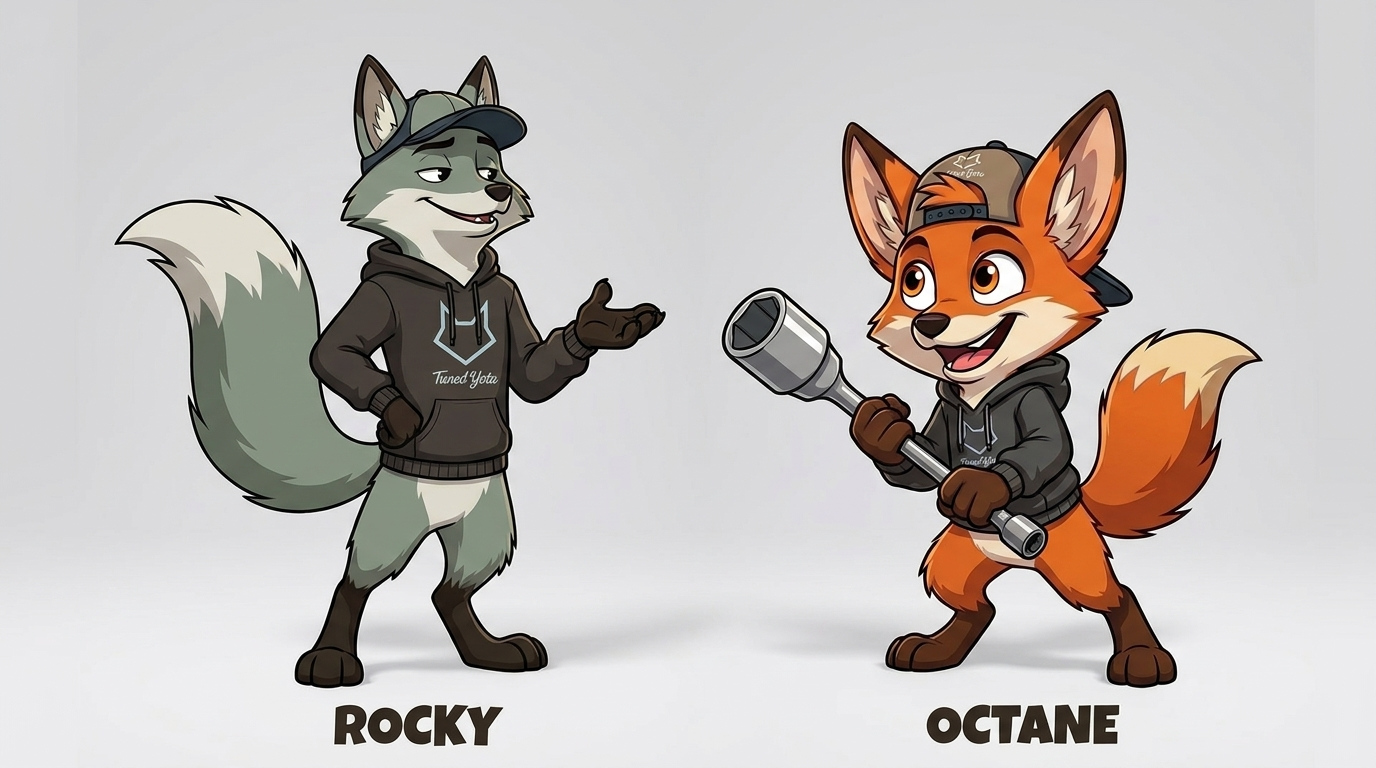
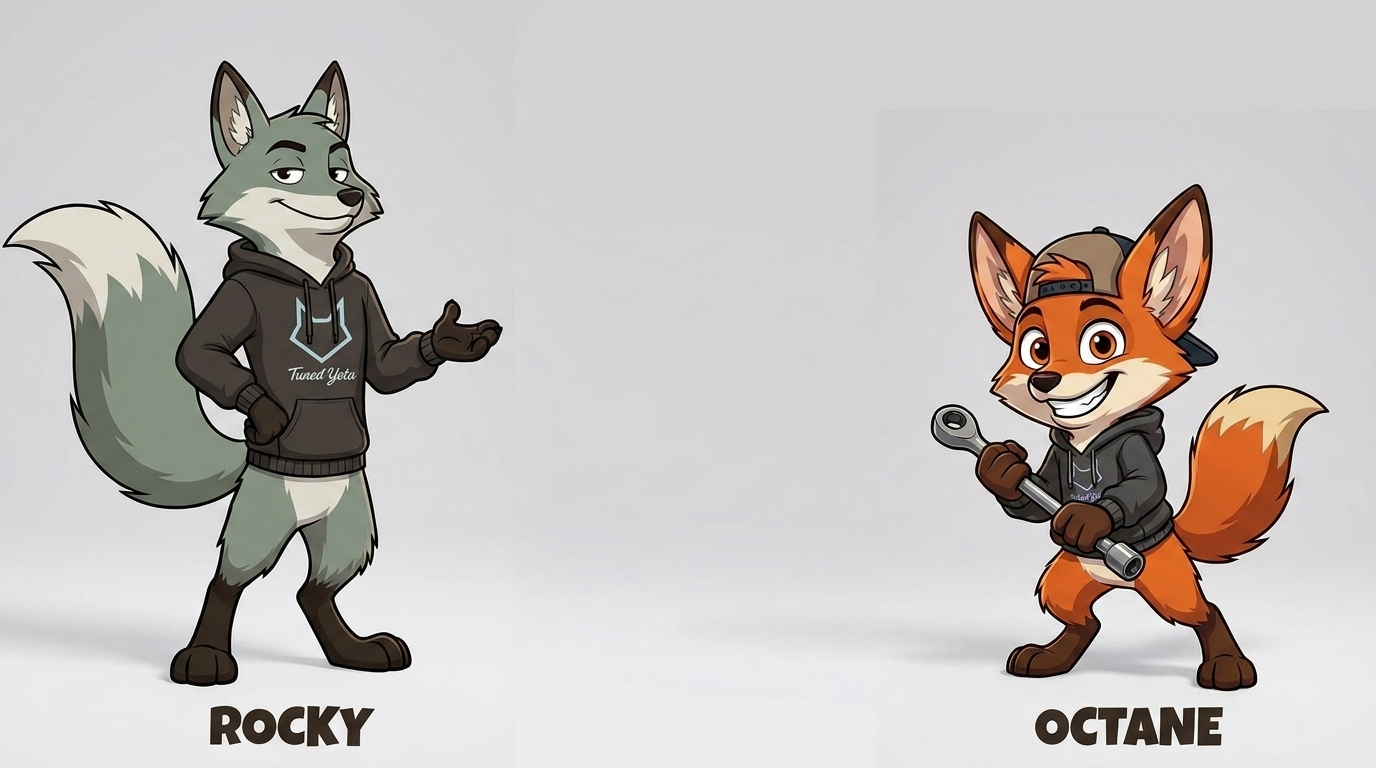
feat(cast): little-buddy Octane, Octane kit, channel art + pilot verify checklist
- Duo lineup master re-rendered with Octane much smaller (owner: "Rocky's little
  buddy") + Octane scale rule added to his brief; removed the earlier oversized hero.
- Octane kit: no-cap state, front/side/back turnaround, 6-face expression sheet.
- Channel art: YouTube banner (2560x1440, lineup + fox emblem + wordmark) + avatar.
- Pilot verify checklist (docs/brand/rocky/pilot-verify-checklist.md): the 8 owner/
  FSM specs needed to unblock the Tundra front-brakes VO render.

diff --git a/docs/brand/rocky/pilot-verify-checklist.md b/docs/brand/rocky/pilot-verify-checklist.md
@@ -1,0 +1,29 @@
+# Pilot Episode — Owner Verification Checklist
+
+**Episode:** 2007–2021 Toyota Tundra — Front Brake Pads & Rotors
+**Purpose:** fill these from FSM / owner source so the `⟨VERIFY⟩` markers in
+`pilot-tundra-front-brakes-script.md` can be replaced with real values (plan
+Task 11) and the VO render is unblocked. **Nothing here is guessed — leave blank
+until verified.**
+
+| # | Spec needed | Where it's used | Value (fill in) |
+|---|-------------|-----------------|-----------------|
+| 1 | Caliper (guide-pin) bolt — **size** | tools card, Step 4 VO | ____ |
+| 2 | Caliper (guide-pin) bolt — **torque (ft-lb)** | Step 8 VO + spec card | ____ |
+| 3 | Caliper bracket (mounting) bolt — **torque (ft-lb)** | Step 3 + Step 6 VO + spec card | ____ |
+| 4 | Lug nut — **torque (ft-lb)** | Step 9 VO + spec card | ____ |
+| 5 | Lug nut — **socket size** | tools card | ____ |
+| 6 | Rotor **retaining screw** present on this generation? (Y/N; size if Y) | Steps 5 & 7 VO | ____ |
+| 7 | **Highest torque** in the procedure (tool-selection callout) | tools card | ____ (derive from 2–4) |
+| 8 | TY **front-brake-kit SKU slug** | parts card + CTA | ____ |
+
+Once filled, I replace the 10 markers in the script, generate the Ava VO, and the
+episode moves to the render/animation stage.
+
+## Remaining pilot steps (still owner/artist/tools — not code)
+- **Task 10:** build & rig the 3D Rocky from the reference set
+  (`assets/rocky/turnaround/*`, `assets/rocky/expression-sheet.png`,
+  `assets/rocky/canonical-concept-v2.png`) → owner sign-off on the on-model checklist.
+- **Task 11:** trace exploded-view diagrams from the reference pack, render the Ava
+  VO from the verified script, animate Rocky, burn captions + `.srt`.
+- **Task 12:** unlisted → owner approval → publish via content-ops.

diff --git a/docs/brand/octane/character-brief.md b/docs/brand/octane/character-brief.md
@@ -33,6 +33,11 @@ the **wrong-size socket** until Rocky hands him the right one. (Folds in the own
 - Wardrobe states: **cap** or **no cap**.
 - **NO hood-up for Octane** (owner rule 2026-08-05) — the hood-up look is Rocky's.
 
+## Scale (owner rule)
+Octane is Rocky's **little** buddy. In any shared shot he is **noticeably smaller** —
+about chest-to-shoulder height of Rocky, like a short young kid beside a tall adult.
+Never draw him as a similar-height peer.
+
 ## Cast / naming system
 Characters are named and colored from the Toyota paint deck — expandable:
 - **Rocky** ← Lunar Rock **6X3** (master tech).
